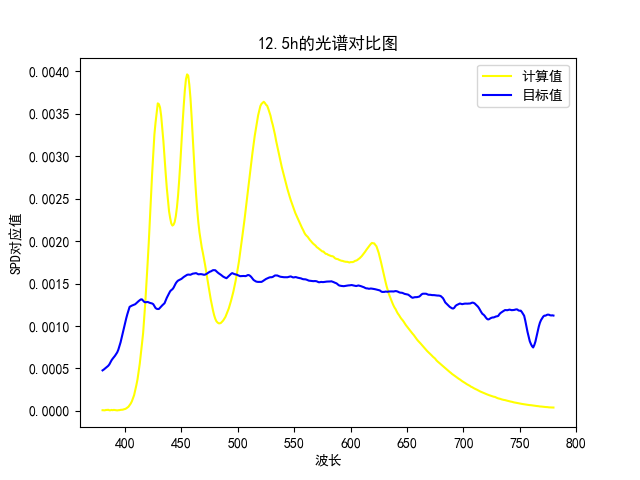
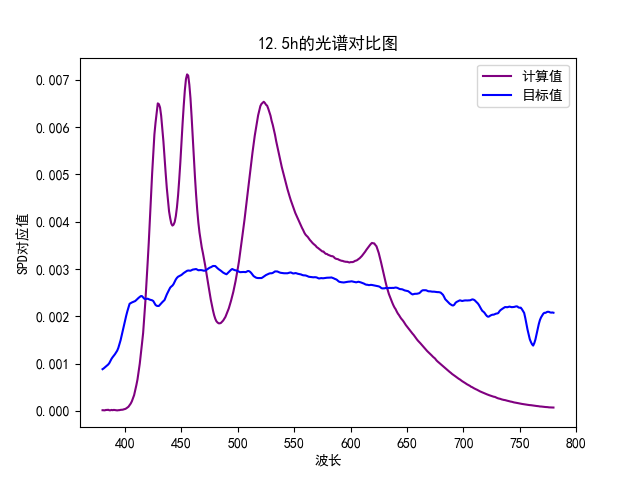
处理一些错误和数据修正

diff --git a/problem3.py b/problem3.py
@@ -85,8 +85,8 @@ def draw_comparison(
         x = v.wavelength()
         y = v.spd()
         y_target = w.spd()
-        plt.plot(x, y, markersize=4, color="yellow", label="计算值")
-        plt.plot(x, y_target, markersize=4, color="blue", label="目标值")
+        plt.plot(x, y/y.sum(), markersize=4, color="purple", label="计算值")
+        plt.plot(x, y_target/y_target.sum(), markersize=4, color="blue", label="目标值")
         plt.xlabel("波长")
         plt.ylabel("SPD对应值")
         plt.title(f"{i+5.5}h的光谱对比图")

diff --git a/essay.md b/essay.md
@@ -282,15 +282,33 @@ $$
 
 # 六、 模型的分析与检验
 
+## 6.1 第二问的计算分析：
+
+在第二问使用差分进化算法时，我们调整并使种群标准差小于均值的1e-4倍，在这种情况下，可以保证收敛性并且解的稳定性和精度都有一定的保障。通过对比发现，我们的解确实符合题中所述的约束条件。
+
+## 6.2 第三问的计算分析：
+
+第三问中，我们对比了计算的mel-DER如下图所示，我们发现mel-DER与目标值的的残差值非常小，接近10e-8的数量级，因此，可以得出结论，拟合得出的光强分布对人体节律的影响与日光下效果十分近似。
+
+![](output\mel-DER残差图.png)
+
+除此之外，我们对比了三个时段的光谱，分别为5:30，12:30，19:30这三个时间段的值。发现虽然mel-DER相似，但其光谱分布有较为明显的不同，具体表现为：在光谱主要分布在波长较低的部分，而波长较高的部分则分布较少。
+
+![](output\5.5h的光谱对比图.png)
+![](output\12.5h的光谱对比图.png)
+![](output\19.5h的光谱对比图.png)
+
+
 # 七、 模型的评价，改进
 
 ## 7.1 模型的优点
 
-CCT计算模型采用了Robertson2023的方法，计算精度高，有现成的库可使用。问题二中采用差分进化算法，符合本题目中所要求的场景。
+CCT计算模型采用了Robertson2023的方法，计算精度高，适用范围更广，计算效率提升，更好处理非标准色品，有现成的库可使用；Rg,Rf采用了IES-TM30标准进行计算，这种标准有更全面的显色评估，且考虑颜色偏差方向和幅度，更具有代表性。问题二中采用差分进化算法，简单容易实现，全局搜索能力强，且可以采用并行算法提高收敛速度。
 
 ## 7.2 模型的缺点
 
-没有完成第四问，第一、二问没有对应的误差分析。
+第一问中，Robertson2023采用的仍然是经验模型，虽然改进很多，但依旧是基于经验和数值拟合，面对极端光谱可能仍有不足。
+第二问中，差分进化算法得到的解并不保证全局最优，或许存在更优的方案。
 
 ## 7.3 模型的改进
 
